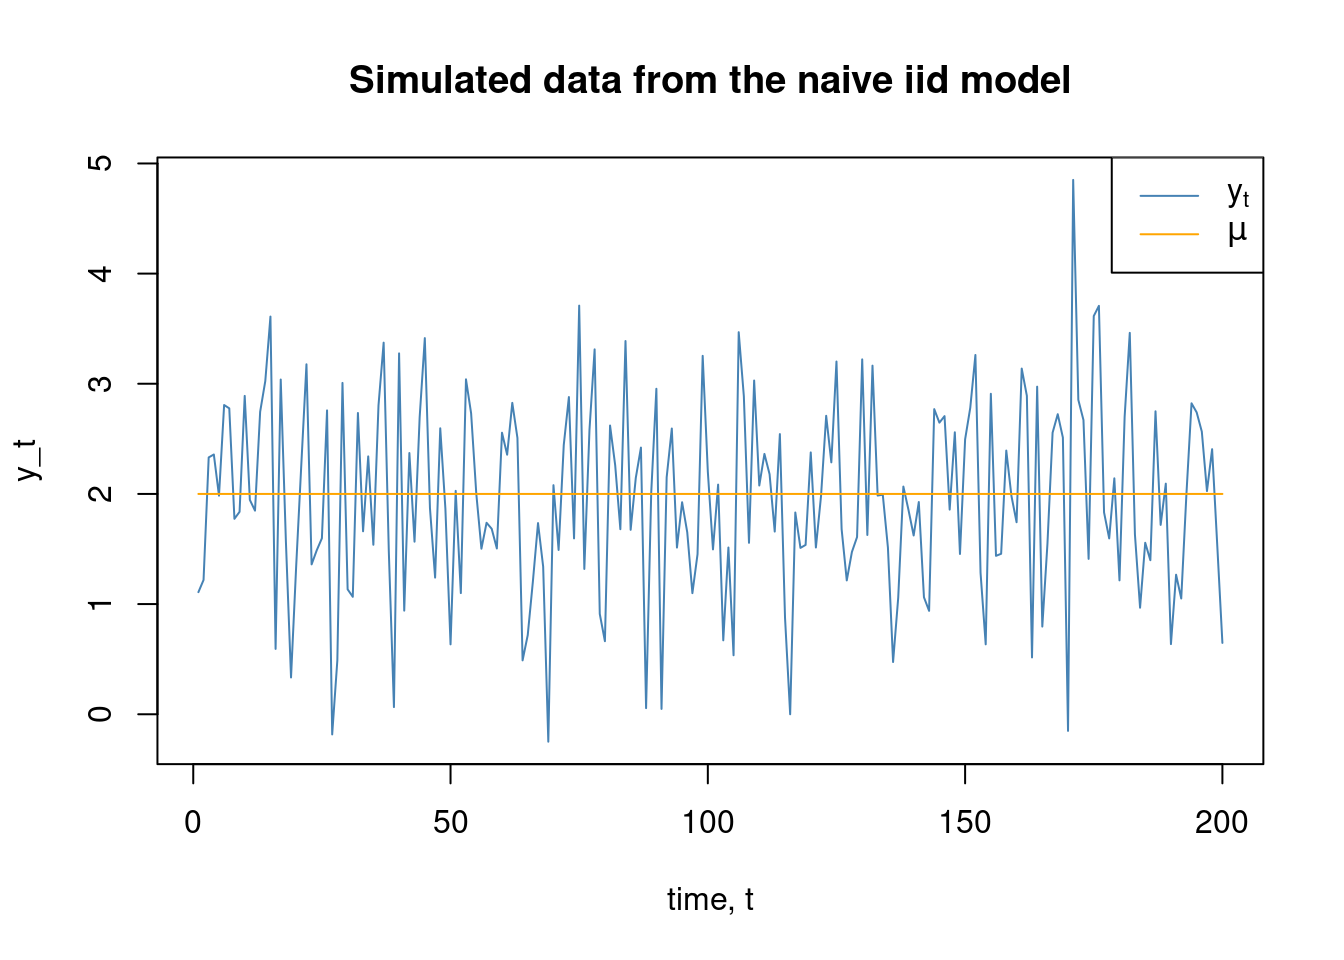
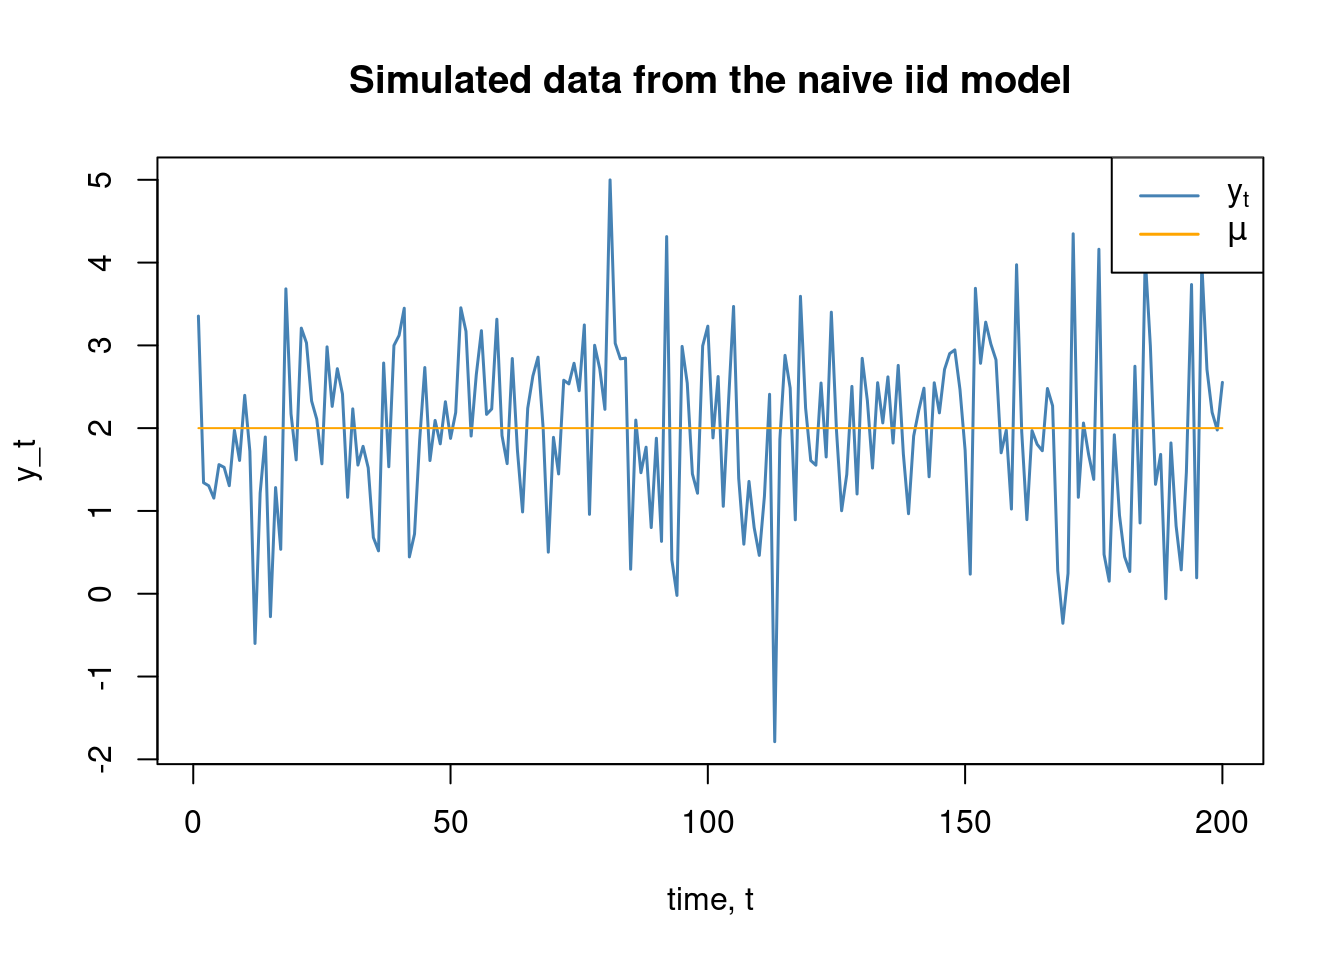
final, final

diff --git a/docs/tutorial/statespace/statespace.html b/docs/tutorial/statespace/statespace.html
@@ -232,10 +232,11 @@ y_t = \mu + \varepsilon_t, \quad \varepsilon_t \sim N(0, \sigma_\varepsilon^2)
 <span id="cb1-4"><a href="#cb1-4" aria-hidden="true" tabindex="-1"></a>mu <span class="ot">=</span> <span class="dv">2</span></span>
 <span id="cb1-5"><a href="#cb1-5" aria-hidden="true" tabindex="-1"></a>sigma_eps <span class="ot">=</span> <span class="dv">1</span></span>
 <span id="cb1-6"><a href="#cb1-6" aria-hidden="true" tabindex="-1"></a>y <span class="ot">=</span> <span class="fu">rnorm</span>(n, <span class="at">mean =</span> mu, <span class="at">sd =</span> sigma_eps)</span>
-<span id="cb1-7"><a href="#cb1-7" aria-hidden="true" tabindex="-1"></a><span class="fu">plot</span>(<span class="fu">seq</span>(<span class="dv">1</span>,n), y, <span class="at">type =</span> <span class="st">"l"</span>, <span class="at">col =</span> <span class="st">"steelblue"</span>, <span class="at">xlab =</span> <span class="st">"time, t"</span>, <span class="at">ylab =</span> <span class="st">"y_t"</span>, <span class="at">main =</span> <span class="st">"Simulated data from the naive iid model"</span>)</span>
-<span id="cb1-8"><a href="#cb1-8" aria-hidden="true" tabindex="-1"></a><span class="fu">lines</span>(<span class="fu">seq</span>(<span class="dv">1</span>,n), <span class="fu">rep</span>(mu,n), <span class="at">type =</span> <span class="st">"l"</span>, <span class="at">col =</span> <span class="st">"orange"</span>)</span>
-<span id="cb1-9"><a href="#cb1-9" aria-hidden="true" tabindex="-1"></a><span class="fu">legend</span>(<span class="st">"topright"</span>, <span class="at">legend =</span> <span class="fu">c</span>(<span class="fu">TeX</span>(<span class="st">"$y_t$"</span>), <span class="fu">TeX</span>(<span class="st">"$</span><span class="sc">\\</span><span class="st">mu$"</span>)), <span class="at">lty =</span> <span class="dv">1</span>, </span>
-<span id="cb1-10"><a href="#cb1-10" aria-hidden="true" tabindex="-1"></a>    <span class="at">col =</span> <span class="fu">c</span>(<span class="st">"steelblue"</span>, <span class="st">"orange"</span>))</span></code><button title="Copy to Clipboard" class="code-copy-button"><i class="bi"></i></button></pre></div>
+<span id="cb1-7"><a href="#cb1-7" aria-hidden="true" tabindex="-1"></a><span class="fu">plot</span>(<span class="fu">seq</span>(<span class="dv">1</span>,n), y, <span class="at">type =</span> <span class="st">"l"</span>, <span class="at">col =</span> <span class="st">"steelblue"</span>, <span class="at">xlab =</span> <span class="st">"time, t"</span>, <span class="at">ylab =</span> <span class="st">"y_t"</span>, <span class="at">lwd =</span> <span class="fl">1.5</span>,</span>
+<span id="cb1-8"><a href="#cb1-8" aria-hidden="true" tabindex="-1"></a>    <span class="at">main =</span> <span class="st">"Simulated data from the naive iid model"</span>)</span>
+<span id="cb1-9"><a href="#cb1-9" aria-hidden="true" tabindex="-1"></a><span class="fu">lines</span>(<span class="fu">seq</span>(<span class="dv">1</span>,n), <span class="fu">rep</span>(mu,n), <span class="at">type =</span> <span class="st">"l"</span>, <span class="at">col =</span> <span class="st">"orange"</span>)</span>
+<span id="cb1-10"><a href="#cb1-10" aria-hidden="true" tabindex="-1"></a><span class="fu">legend</span>(<span class="st">"topright"</span>, <span class="at">legend =</span> <span class="fu">c</span>(<span class="fu">TeX</span>(<span class="st">"$y_t$"</span>), <span class="fu">TeX</span>(<span class="st">"$</span><span class="sc">\\</span><span class="st">mu$"</span>)), <span class="at">lty =</span> <span class="dv">1</span>, <span class="at">lwd =</span> <span class="fl">1.5</span>, </span>
+<span id="cb1-11"><a href="#cb1-11" aria-hidden="true" tabindex="-1"></a>    <span class="at">col =</span> <span class="fu">c</span>(<span class="st">"steelblue"</span>, <span class="st">"orange"</span>))</span></code><button title="Copy to Clipboard" class="code-copy-button"><i class="bi"></i></button></pre></div>
 </details>
 <div class="cell-output-display">
 <p><img src="statespace_files/figure-html/unnamed-chunk-1-1.png" class="img-fluid" width="672"></p>
